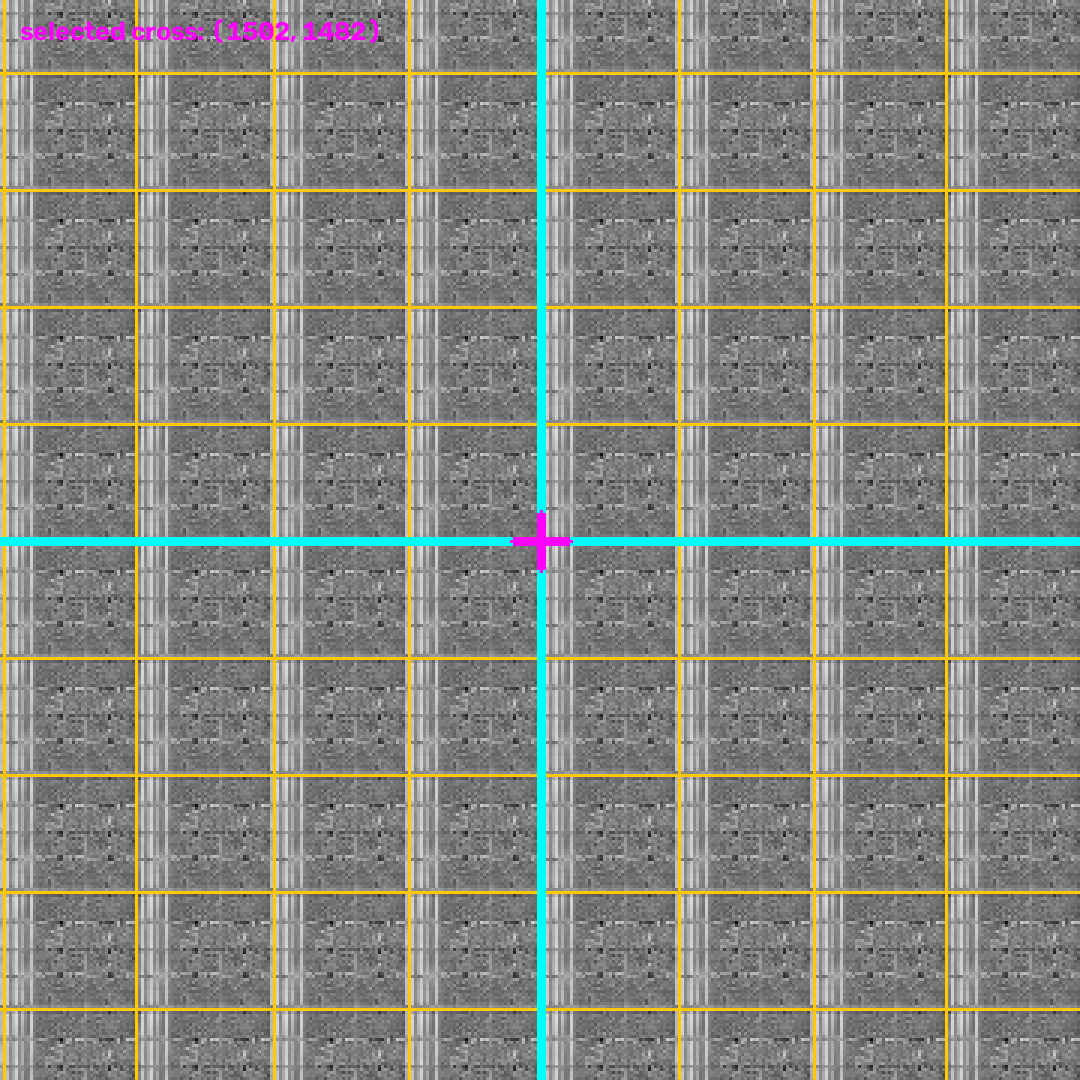
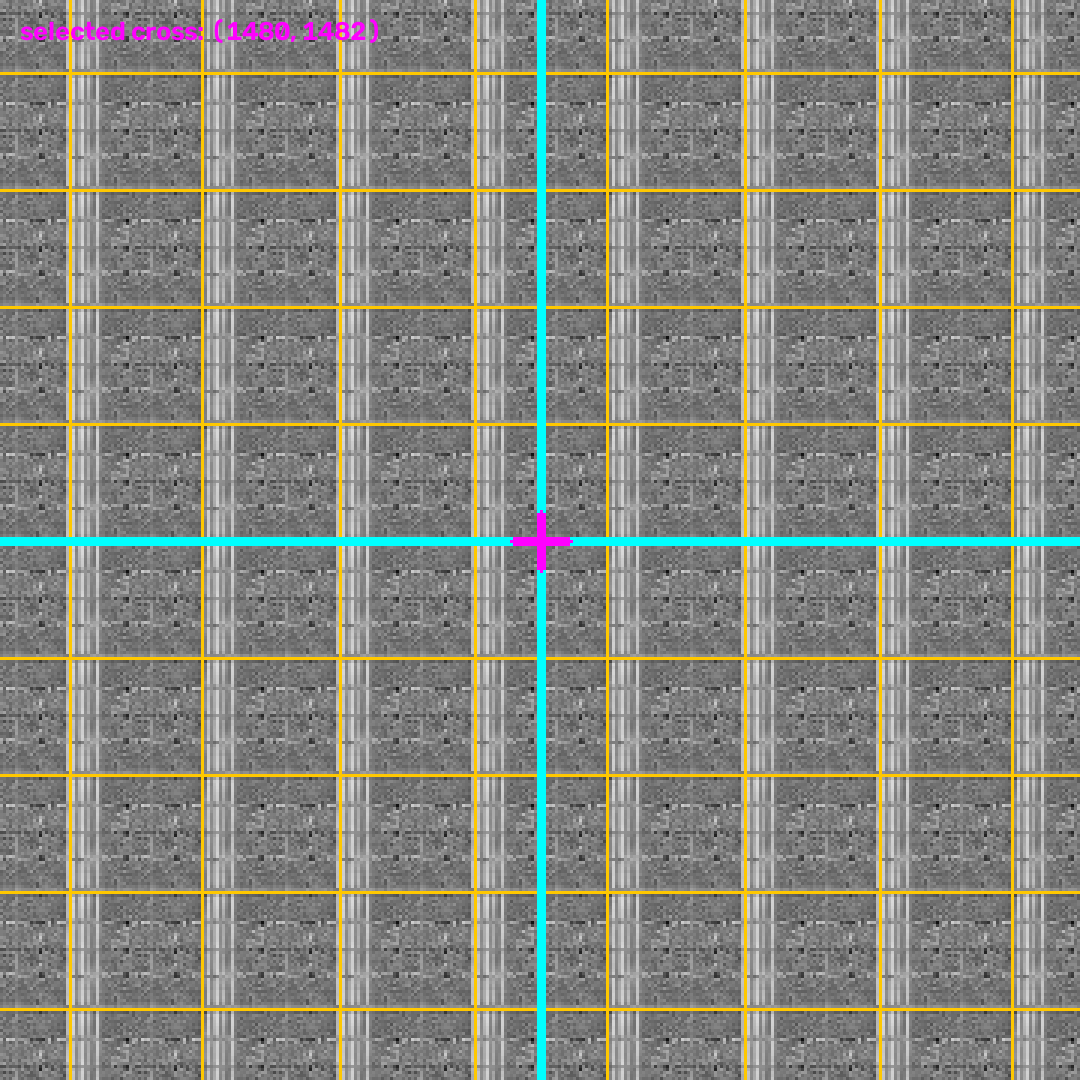
place gray grid origin between vertical noise lanes

diff --git a/USE_LATEST/use_gray_wafer_die_particle.py b/USE_LATEST/use_gray_wafer_die_particle.py
@@ -625,14 +625,21 @@ def _select_cross_origin(x_bands: List[Tuple[float, int, int, float]],
     periodic_y = _keep_periodic_candidates(y_bands, pitch_y)
     candidate_x = [band for band in periodic_x if band in near_x] or periodic_x
     candidate_y = [band for band in periodic_y if band in near_y] or periodic_y
-    # Directional opening can shift a physical 1px crossing by one pixel in each
-    # direction. Pick axes independently after width filtering; their geometric
-    # intersection is the grid corner and is more stable than exact mask overlap.
-    selected_x = min(candidate_x, key=lambda band: abs(band[0] - wafer_cx))
+    # In this Gray wafer type the strong repeating vertical bands are die-center
+    # noise, not the weak GV boundary.  Select the nearest repeated noise lane
+    # only as a reference, then move half a pitch toward the wafer center to the
+    # boundary between lanes.  This avoids placing x0 on the bright gray stripe.
+    selected_noise_x = min(candidate_x, key=lambda band: abs(band[0] - wafer_cx))
+    direction_to_center = -1.0 if selected_noise_x[0] >= wafer_cx else 1.0
+    selected_x = float(selected_noise_x[0] + direction_to_center * pitch_x * 0.5)
+
+    # The horizontal directional mask identifies actual cross rows.  Unlike the
+    # vertical die-center noise, y0 is the nearest horizontal row at/before the
+    # wafer center and needs no half-pitch conversion.
     upper_y = [band for band in candidate_y if band[0] <= wafer_cy]
     selected_y = max(upper_y, key=lambda band: band[0]) if upper_y else min(
         candidate_y, key=lambda band: abs(band[0] - wafer_cy))
-    return float(selected_x[0]), float(selected_y[0])
+    return selected_x, float(selected_y[0])
 
 
 def detect_thin_cross_grid(image: np.ndarray,
@@ -645,11 +652,11 @@ def detect_thin_cross_grid(image: np.ndarray,
 
     A local high-pass image is opened separately in vertical and horizontal
     directions. Physical 1-2 px lines become up to 5 px after local contrast
-    enhancement, so only bands up to ``thin_width_max`` are retained.
-    A wide vertical noise band can survive the vertical opening, but it cannot
-    become the origin because it is rejected by width and paired with a narrow
-    horizontal ridge near the wafer center. ``pitch_x`` is measured from left/right vertical
-    cross positions and ``pitch_y`` from upper/lower horizontal cross positions.
+    enhancement, so only bands up to ``thin_width_max`` are retained.  In the
+    supplied Gray wafer type the repeated vertical bright bands are die-center
+    noise: their period measures ``pitch_x``, while the weak GV boundary ``x0``
+    is inferred half a pitch toward the wafer center.  ``pitch_y`` and ``y0``
+    come from actual narrow horizontal cross rows.
     """
     # The weak-Gray cross mode is specialized for the requested 30-70px range.
     # Other grid methods keep their historical unbounded default when requested.

diff --git a/TEST_3000_GRAY/validate_thin_cross_grid.py b/TEST_3000_GRAY/validate_thin_cross_grid.py
@@ -17,14 +17,16 @@ def main() -> None:
     wafer_cx = wafer_cy = 1500
     wafer_r = 1330
     expected_pitch_x, expected_pitch_y = 47, 53
-    expected_x0, expected_y0 = 1498, 1490
+    noise_lane_x, expected_x0, expected_y0 = 1498, 1521, 1490
 
     yy, xx = np.ogrid[:height, :width]
     wafer_mask = (xx - wafer_cx) ** 2 + (yy - wafer_cy) ** 2 <= wafer_r ** 2
     image = np.zeros((height, width), np.uint8)
     image[wafer_mask] = 45
-    for x in np.arange(expected_x0 - 40 * expected_pitch_x,
-                       expected_x0 + 41 * expected_pitch_x, expected_pitch_x):
+    # Repeated bright vertical lanes are die-center noise.  The expected weak
+    # GV boundary is halfway to the next lane toward the wafer center.
+    for x in np.arange(noise_lane_x - 40 * expected_pitch_x,
+                       noise_lane_x + 41 * expected_pitch_x, expected_pitch_x):
         if 0 <= x < width:
             image[:, max(0, x - 1):min(width, x + 1)] = 125
     for y in np.arange(expected_y0 - 40 * expected_pitch_y,

diff --git a/TEST_3000_GRAY/README_KO.md b/TEST_3000_GRAY/README_KO.md
@@ -38,10 +38,10 @@ dm = build_die_map(
 | wafer radius | `1412` px |
 | `pitch_x`, `pitch_y` | `44.979`, `39.000` px |
 | corner `(x0, y0)` | `(1502, 1492)` px |
-| partial Die 포함 map Die 수 | `3709` |
-| 실제 원-사각형 교차 EDGE | `270` |
-| 기존 중심점 방식이 찾은 EDGE | `137` |
-| 기존 방식 누락 EDGE | `133` |
+| partial Die 포함 map Die 수 | `3694` |
+| 실제 원-사각형 교차 EDGE | `268` |
+| 기존 중심점 방식이 찾은 EDGE | `142` |
+| 기존 방식 누락 EDGE | `126` |
 
 ![3000px Gray preview](wafer_1_gray_preview.png)
 
@@ -51,9 +51,9 @@ dm = build_die_map(
 
 ![중심 십자가 검출 근거](wafer_1_cross_evidence_zoom.png)
 
-중심 확대 이미지에서 노란색은 폭 제한을 통과한 세로/가로 후보, 하늘색은 선택한 두 축, 자홍색 십자는 최종 교차점이다. 세로 후보는 폭 제한뿐 아니라 같은 `pitch_x` 위상으로 반복되는지도 확인한다. 가로 후보는 내부 질감의 약 9px 반복이 아닌, 가로 방향으로 연속된 39px 간격의 얇은 선을 사용한다.
+중심 확대 이미지에서 노란색은 폭 제한을 통과한 세로/가로 후보, 하늘색은 선택한 두 축, 자홍색 십자는 최종 교차점이다. 노란 세로 후보는 강한 회색/흰색 노이즈 lane이므로 `x0`으로 쓰지 않는다. 가장 가까운 반복 lane을 기준으로 wafer 중심 방향에 있는 다음 lane 사이의 중간, 즉 `pitch_x/2` 이동한 약한 GV 경계를 하늘색 `x0`으로 사용한다. 가로 후보는 내부 질감의 약 9px 반복이 아닌, 가로 방향으로 연속된 39px 간격의 얇은 선을 사용한다.
 
-이번 TEST 이미지의 최종 십자가는 `(1502, 1482)`이며, `pitch_x=44.979`, `pitch_y=39.000`이다. `validate_thin_cross_grid.py`는 16px 폭의 밝은 세로 노이즈를 중심 근처에 일부러 넣어도, 반복 위상이 없는 선을 선택하지 않고 올바른 십자가와 pitch를 찾는지 검사한다.
+이번 TEST 이미지의 최종 십자가는 `(1480, 1482)`이며, `pitch_x=44.979`, `pitch_y=39.000`이다. `validate_thin_cross_grid.py`는 16px 폭의 밝은 세로 노이즈를 중심 근처에 일부러 넣어도, 노이즈 lane이 아닌 `pitch_x/2` 이동한 GV 경계와 올바른 pitch를 찾는지 검사한다.
 
 ## 수정한 판정 로직
 
